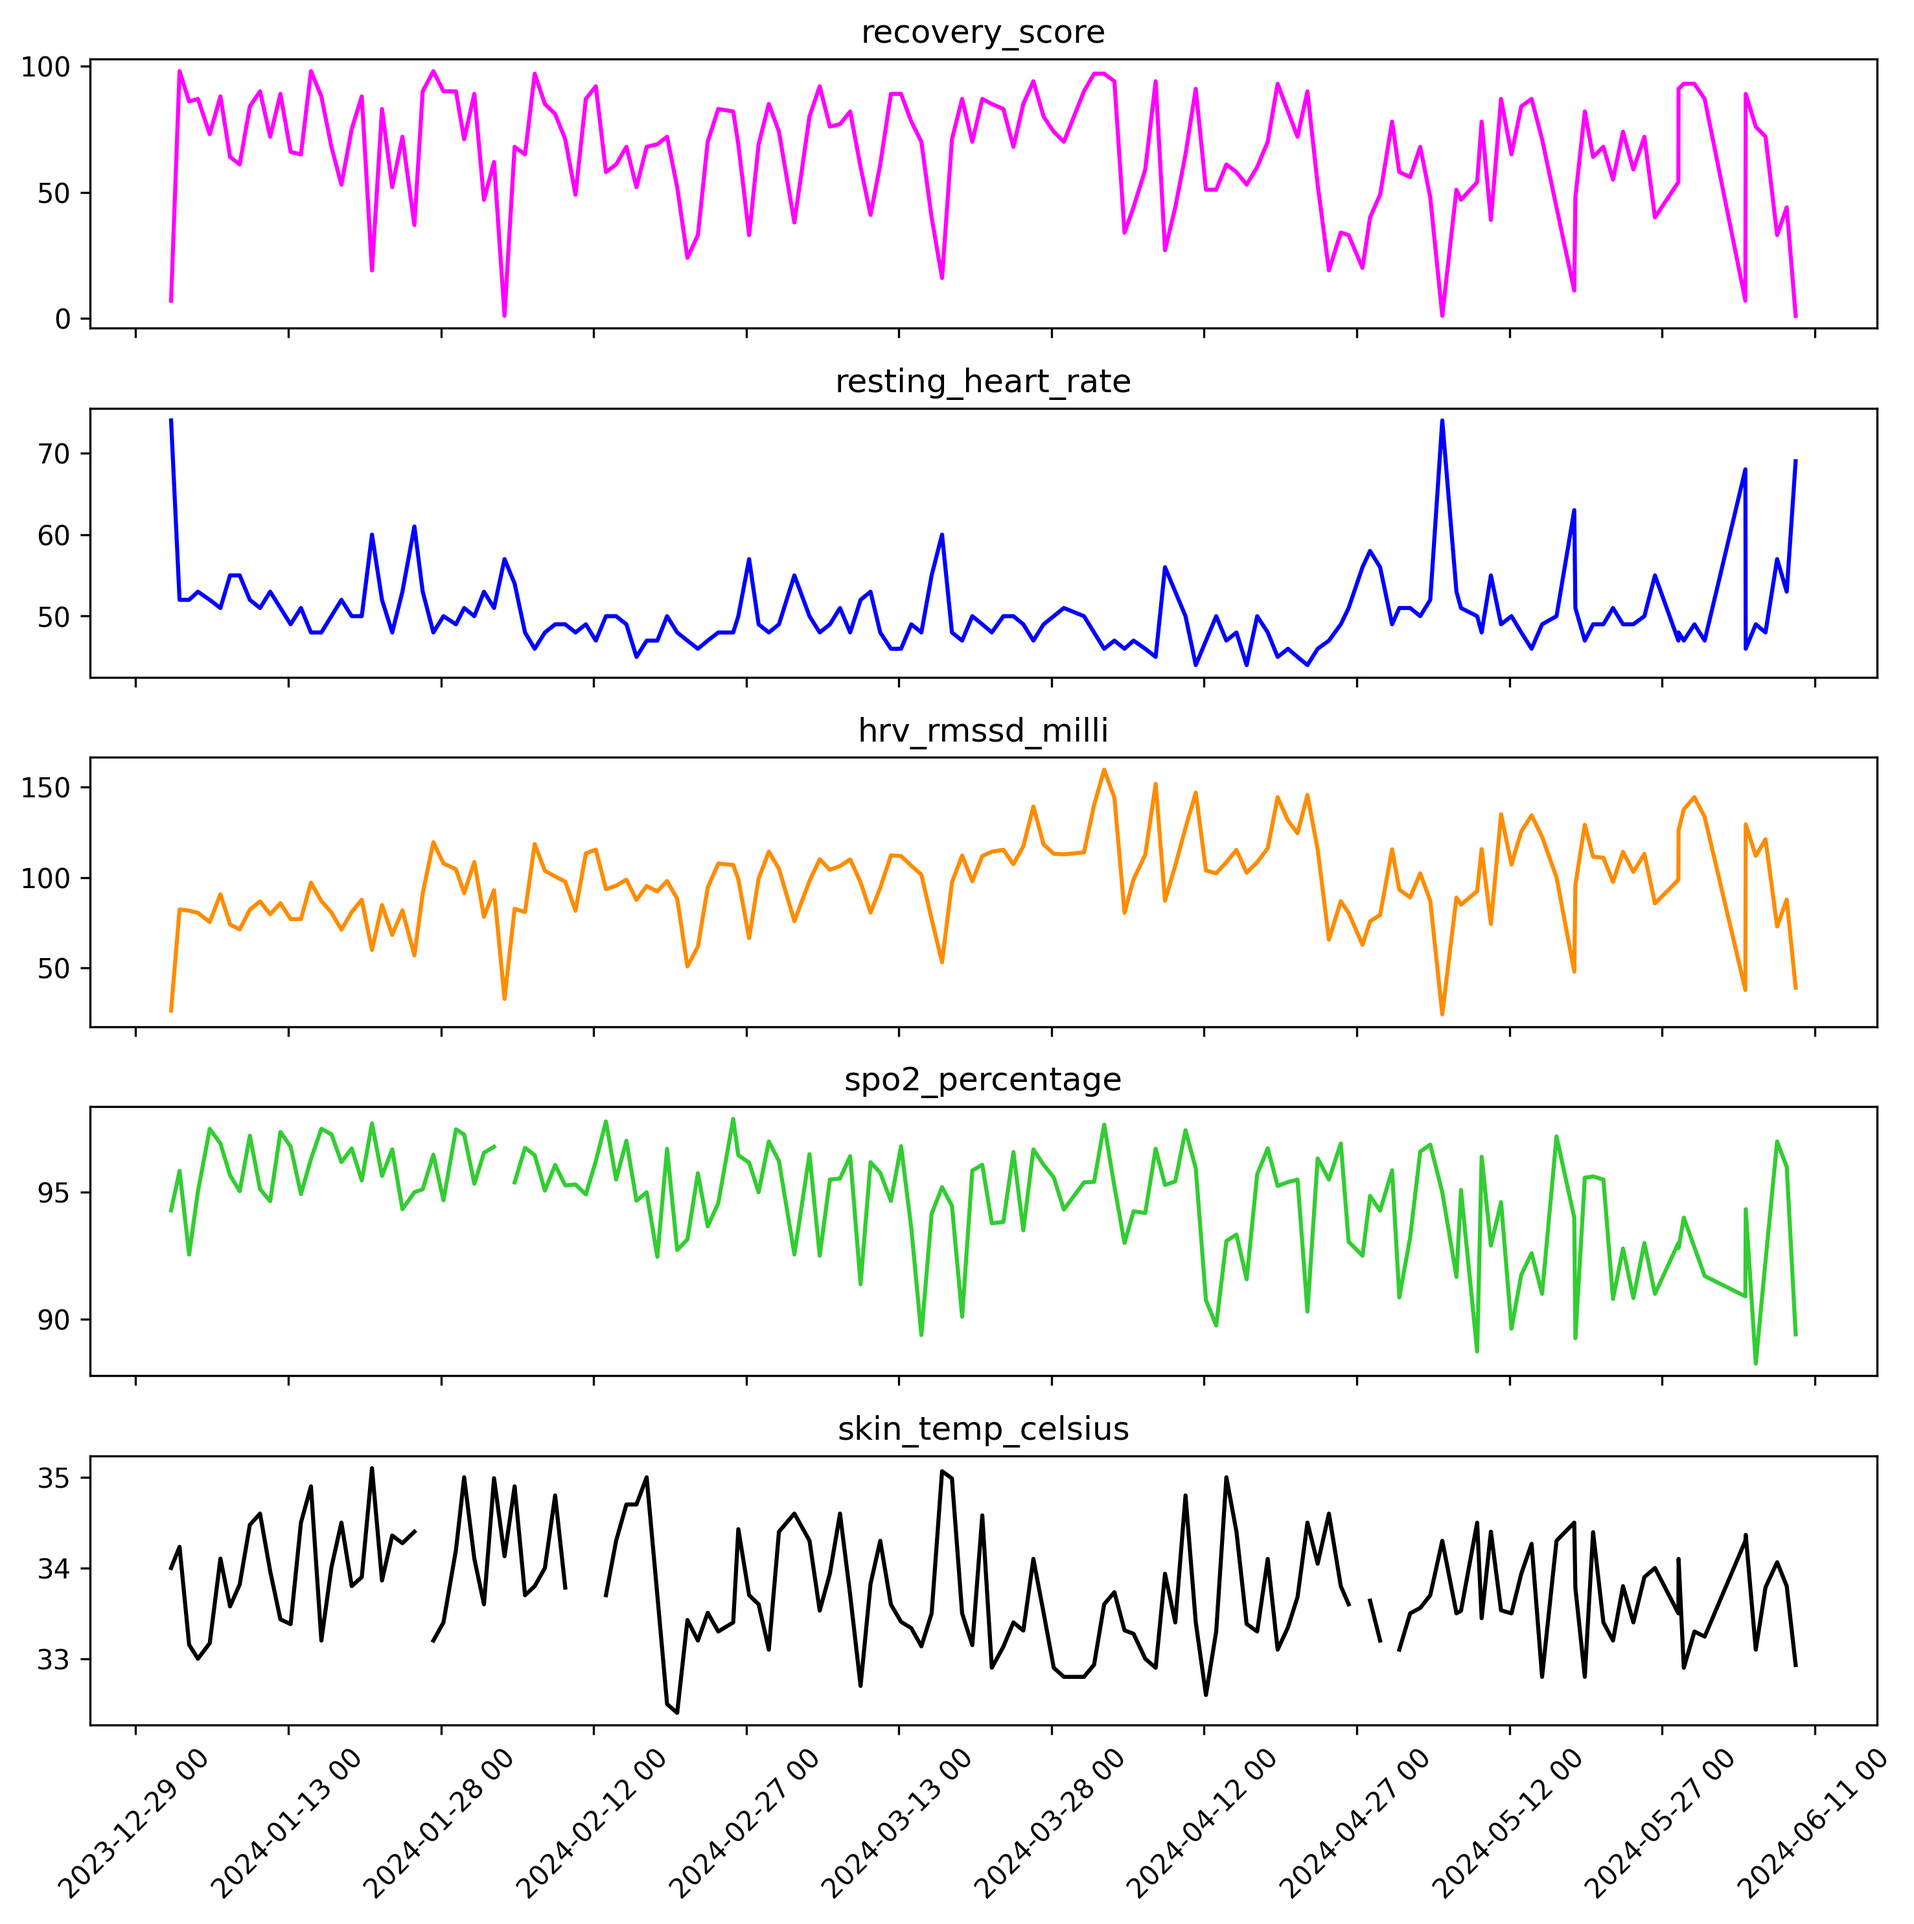
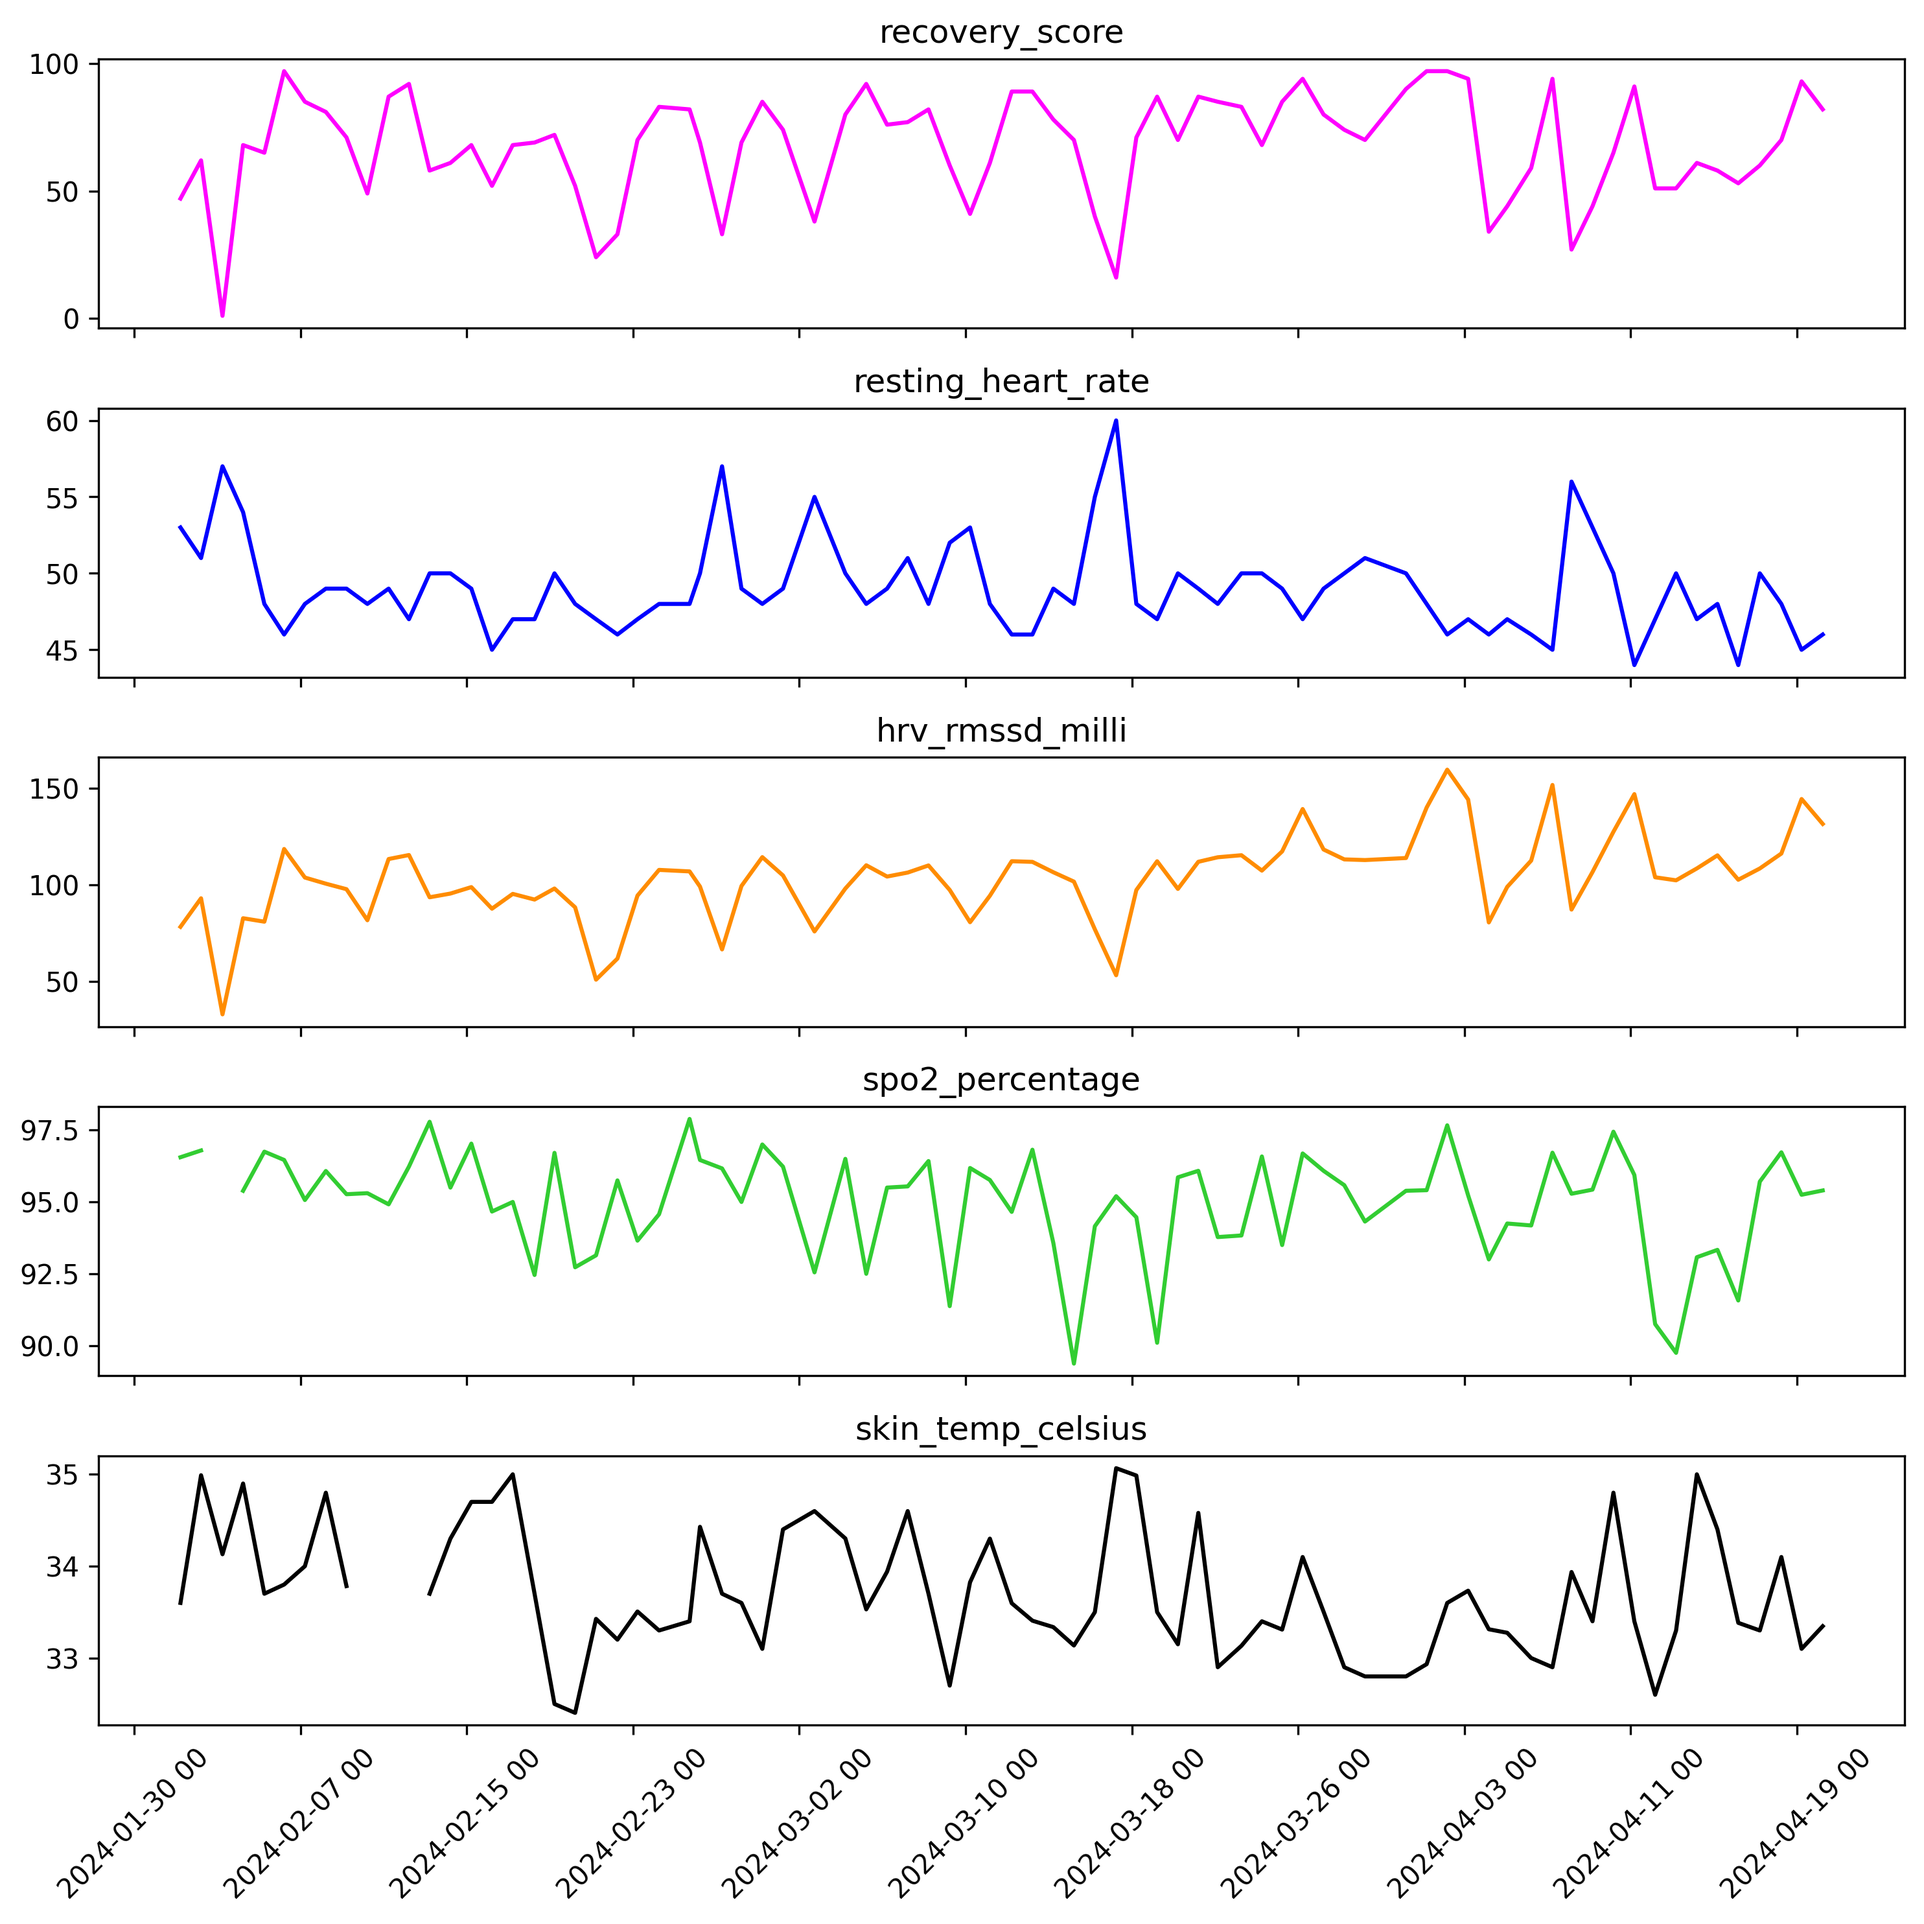
Update time period

diff --git a/main.py b/main.py
@@ -14,8 +14,8 @@ if __name__ == "__main__":
     username = os.getenv("WHOOP_USERNAME")
     password = os.getenv("WHOOP_PASSWORD")
 
-    start_date = dt(2024, 1, 1, tzinfo=pytz.utc)
-    end_date = dt(2024, 6, 10, tzinfo=pytz.utc)
+    start_date = dt(2024, 2, 1, tzinfo=pytz.utc)
+    end_date = dt(2024, 4, 20, tzinfo=pytz.utc)
     client = RecoveryClient(username, password)
     recovery = client.get_recovery(start_date, end_date)
     plot_recovery(recovery, savedir)
